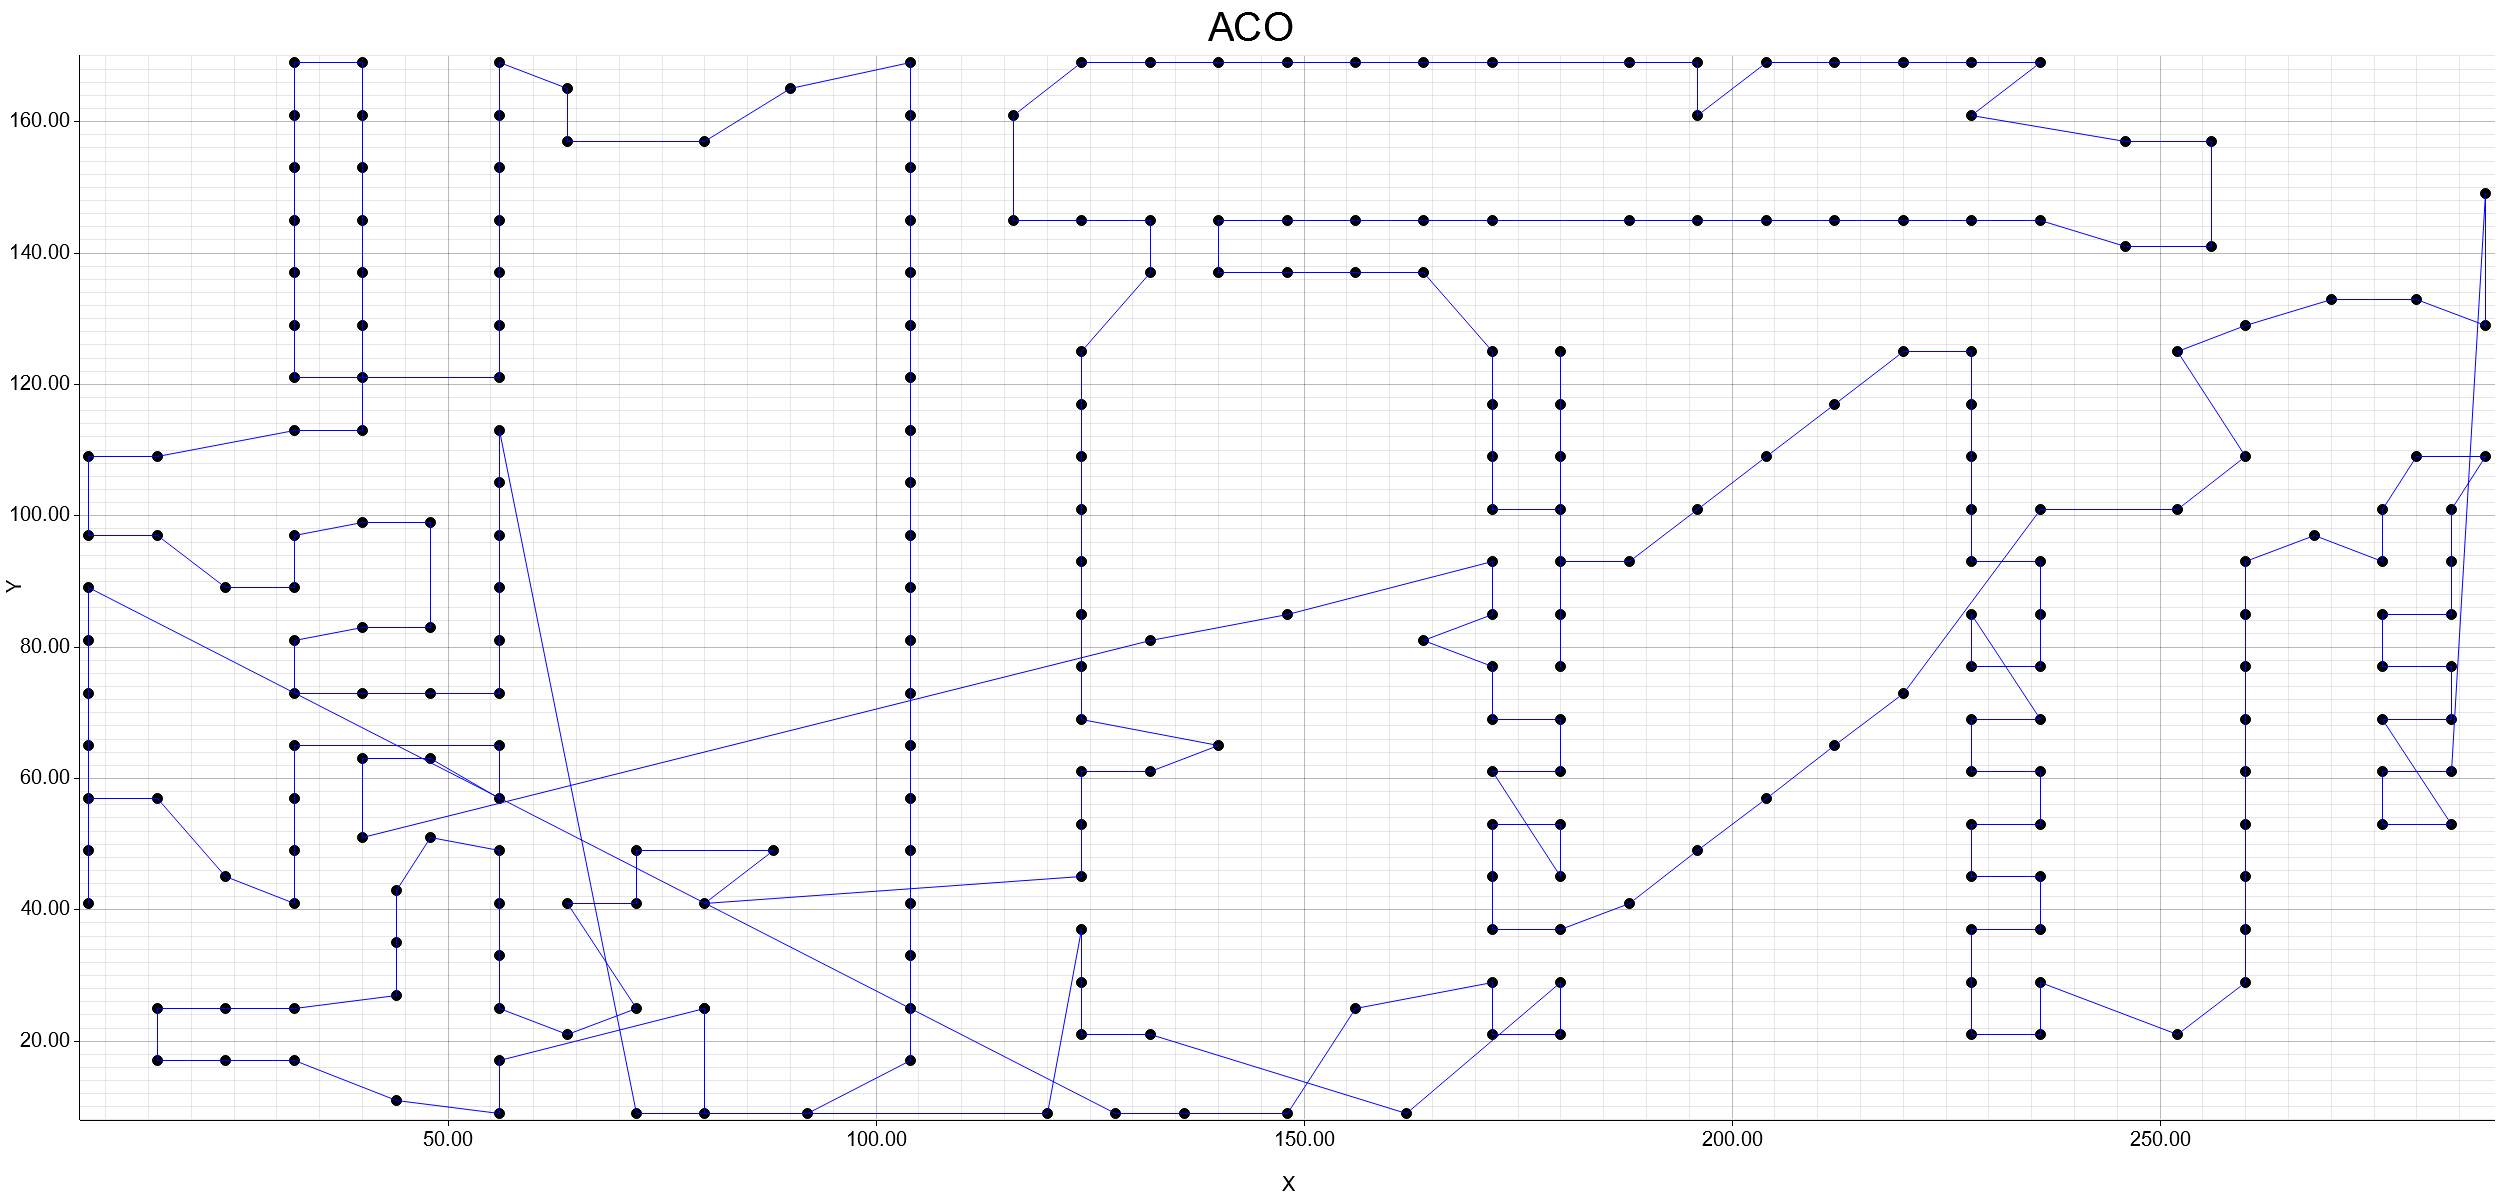
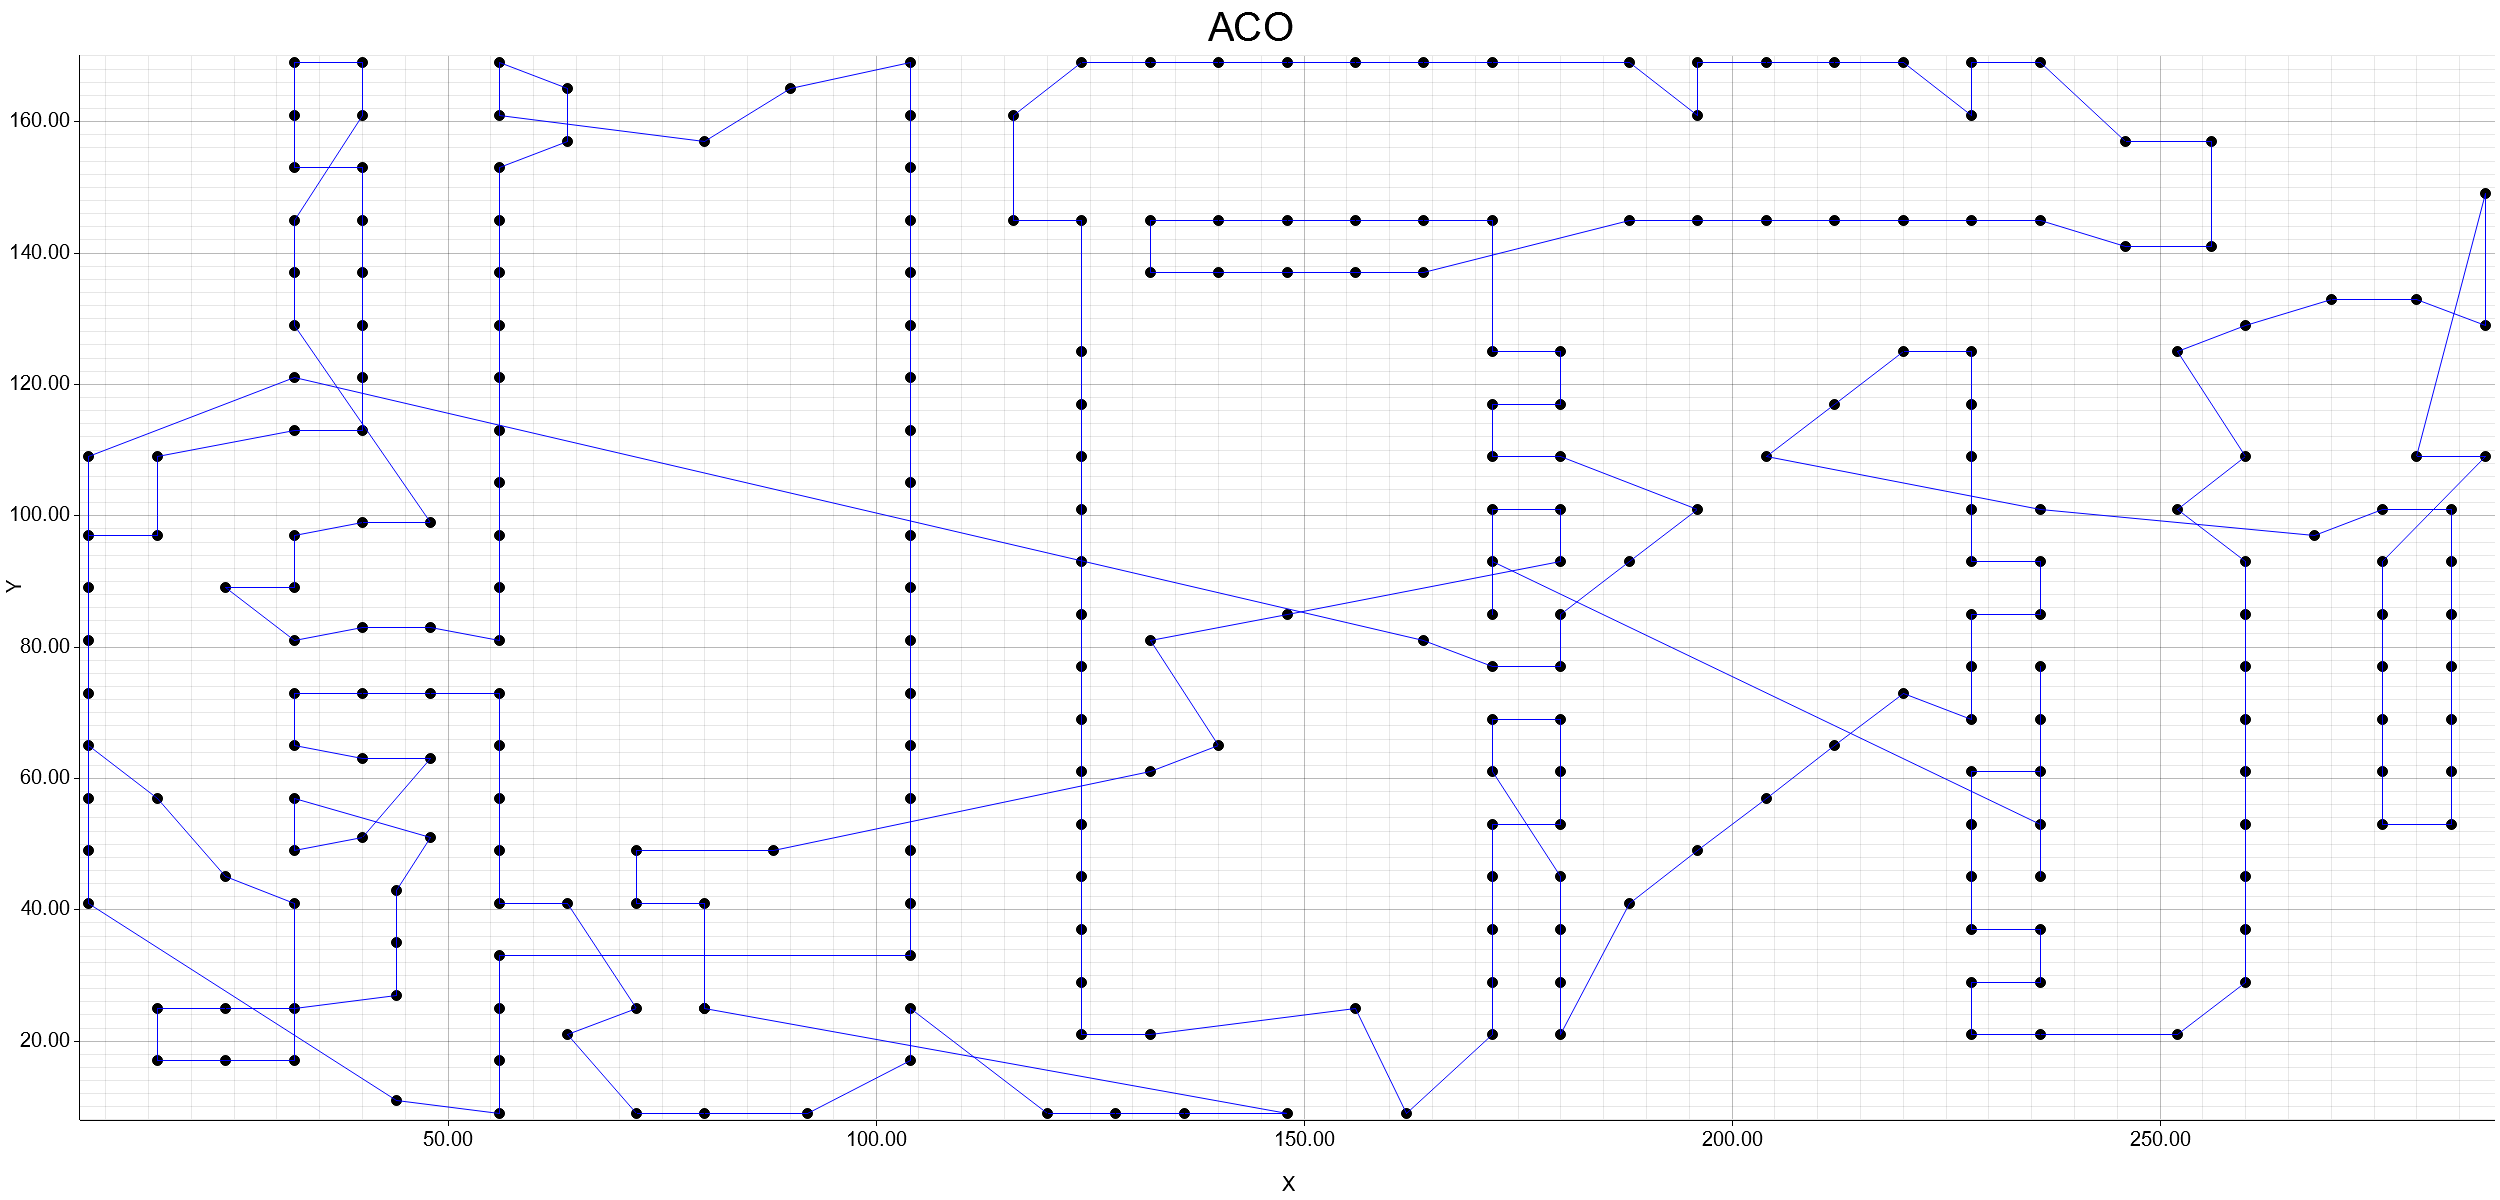
feat: sa is back

Changed region(s): [[0.5304, 0.4933, 0.5616, 0.5242], [0.3744, 0.8633, 0.4056, 0.8942]]

diff --git a/src/sa.rs b/src/sa.rs
@@ -1,0 +1,91 @@
+use crate::tsplib::*;
+use rand::prelude::*;
+
+pub struct SimulatedAnnealing {
+    history: Vec<Route>,
+    best_route: Route,
+    run_time: u64,
+
+    // Parameters
+    pub temperature: f64,
+    pub cooling_rate: f64,
+    pub min_temperature: f64,
+}
+
+impl SimulatedAnnealing {
+    pub fn new(tsp: &TspLib, temperature: f64, cooling_rate: f64, min_temperature: f64) -> Self {
+        SimulatedAnnealing {
+            history: Vec::new(),
+            best_route: Route::new(&tsp.cities),
+            run_time: 0,
+
+            temperature,
+            cooling_rate,
+            min_temperature,
+        }
+    }
+}
+
+impl HeuristicAlgorithm for SimulatedAnnealing {
+    fn solve(&mut self, tsp: &TspLib) {
+        let start_time = std::time::Instant::now();
+        let mut rng = rand::thread_rng();
+        let mut epoch = 0;
+
+        let mut current_route = Route::new_random(&tsp.cities);
+        let mut current_distance = current_route.distance;
+        let mut best_distance = current_distance;
+        self.best_route = current_route.clone();
+
+        let moves_per_temp = tsp.dimension * 2;
+
+        while self.temperature > self.min_temperature {
+            if epoch % 100 == 0 {
+                println!(
+                    "Epoch: {}, Temperature: {}, Best Distance: {}",
+                    epoch, self.temperature, best_distance
+                );
+            }
+
+            for _ in 0..moves_per_temp {
+                let new_route = current_route.random_move(&mut rng);
+                let new_distance = new_route.distance;
+
+                let delta = new_distance as f64 - current_distance as f64;
+                let acceptance_probability = if delta < 0.0 {
+                    1.0
+                } else {
+                    (-delta / self.temperature).exp()
+                };
+
+                if acceptance_probability > rng.gen::<f64>() {
+                    current_route = new_route;
+                    current_distance = new_distance;
+
+                    if current_distance < best_distance {
+                        best_distance = current_distance;
+                        self.best_route = current_route.clone();
+                    }
+                }
+            }
+
+            self.history.push(current_route.clone());
+            self.temperature *= 1.0 - self.cooling_rate;
+            epoch += 1;
+        }
+
+        self.run_time = start_time.elapsed().as_millis() as u64;
+    }
+
+    fn get_best_route(&self) -> Route {
+        self.best_route.clone()
+    }
+
+    fn get_history(&self) -> Vec<Route> {
+        self.history.clone()
+    }
+
+    fn get_run_time(&self) -> u64 {
+        self.run_time
+    }
+}

diff --git a/src/tsplib.rs b/src/tsplib.rs
@@ -6,7 +6,7 @@ use std::{
 };
 
 use anyhow::Result;
-use rand::seq::SliceRandom;
+use rand::{rngs::ThreadRng, seq::SliceRandom, Rng};
 
 static OPTIMALS_PATH: &str = "instances/optimal_tour_lengths.txt";
 
@@ -47,6 +47,41 @@ impl Route {
             distance += euclidean_distance(&cities[i - 1], &cities[i]);
         }
         distance
+    }
+
+    pub fn swap_random_cities(&self, rng: &mut rand::prelude::ThreadRng) -> Self {
+        let mut new_cities = self.cities.clone();
+        let i = rng.gen_range(0..new_cities.len());
+        let j = rng.gen_range(0..new_cities.len());
+        new_cities.swap(i, j);
+        let distance = Self::calculate_distance(&new_cities);
+        Route {
+            cities: new_cities,
+            distance,
+        }
+    }
+
+    pub fn two_opt_move(&self, i: usize, j: usize) -> Self {
+        let mut new_cities = self.cities.clone();
+
+        let (left, right) = (i.min(j), i.max(j));
+        new_cities[left..=right].reverse();
+
+        let distance = Self::calculate_distance(&new_cities);
+        Route {
+            cities: new_cities,
+            distance,
+        }
+    }
+
+    pub fn random_move(&self, rng: &mut ThreadRng) -> Self {
+        if rng.gen::<f64>() < 0.8 {
+            self.swap_random_cities(rng)
+        } else {
+            let i = rng.gen_range(0..self.cities.len());
+            let j = rng.gen_range(0..self.cities.len());
+            self.two_opt_move(i, j)
+        }
     }
 }
 

diff --git a/src/main.rs b/src/main.rs
@@ -1,6 +1,7 @@
 mod aco;
 mod plot;
 mod pso;
+mod sa;
 mod tsplib;
 
 use anyhow::Result;
@@ -14,16 +15,21 @@ fn main() -> Result<()> {
     println!("{:?}", tsp);
     plot::plot_tsp_instance(tsp.clone())?;
 
-    let mut aco = aco::AntColonyOptimization::new(&tsp, 1.0, 2.0, 0.5, 50.0, 100, 100);
-    aco.solve(&tsp);
+    // let mut aco = aco::AntColonyOptimization::new(&tsp, 1.0, 2.0, 0.5, 50.0, 100, 100);
+    // aco.solve(&tsp);
+    // let aco_best_route = aco.get_best_route();
+    // let aco_run_time = aco.get_run_time();
+    // println!("ACO best route: {:?}", aco_best_route.distance);
+    // println!("ACO run time: {} ms", aco_run_time);
+    // plot::plot_algo_result(&aco, "ACO", &plotters::style::BLUE)?;
 
-    let aco_best_route = aco.get_best_route();
-    let aco_run_time = aco.get_run_time();
-
-    println!("ACO best route: {:?}", aco_best_route.distance);
-    println!("ACO run time: {} ms", aco_run_time);
-
-    plot::plot_algo_result(&aco, "ACO", &plotters::style::BLUE)?;
+    let mut sa = sa::SimulatedAnnealing::new(&tsp, 10000.0, 0.001, 0.1);
+    sa.solve(&tsp);
+    let sa_best_route = sa.get_best_route();
+    let sa_run_time = sa.get_run_time();
+    println!("SA best route: {:?}", sa_best_route.distance);
+    println!("SA run time: {} ms", sa_run_time);
+    plot::plot_algo_result(&sa, "SA", &plotters::style::RED)?;
 
     Ok(())
 }
